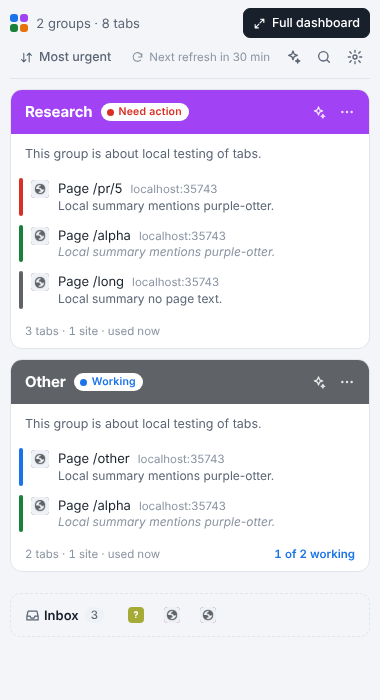
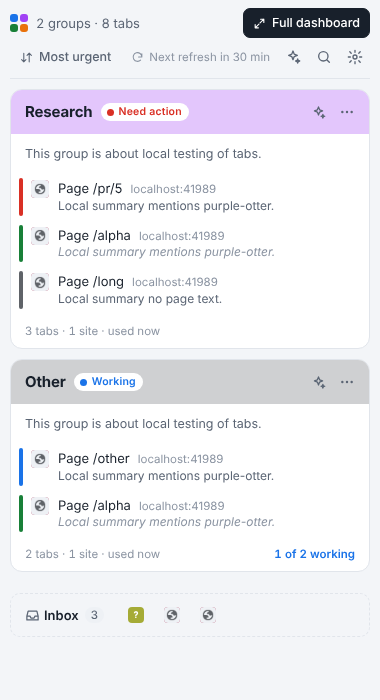
Tone card headers down to a 30% tint of the group color with normal text
Solid colors were too strong; this sits between the old 12% pastel and
the solid fill. Text uses the regular ink color (10:1+ light, 5.6:1+ dark).

Claude-Session: https://claude.ai/code/session_01VtsPSm2NgJEzi9Hbpb4fiX

diff --git a/src/dashboard.css b/src/dashboard.css
@@ -16,8 +16,8 @@
   /* Chrome tab group colors, light */
   --g-grey: #5f6368; --g-blue: #1a73e8; --g-red: #d93025; --g-yellow: #e8a200;
   --g-green: #188038; --g-pink: #d01884; --g-purple: #a142f4; --g-cyan: #007b83; --g-orange: #e8710a;
-  /* Text on a solid group color: white on the deep colors, dark on yellow and orange (contrast >= 4.5:1). */
-  --on-g: #ffffff; --on-g-warm: #1b1f26;
+  /* How much of the group color goes into a card header (the rest is the surface). */
+  --head-mix: 30%;
   --font-ui: ui-sans-serif, system-ui, -apple-system, "Segoe UI", sans-serif;
   --font-mono: ui-monospace, "SF Mono", Menlo, Consolas, monospace;
 }
@@ -28,7 +28,7 @@
     --shadow: 0 1px 2px rgba(0,0,0,.4), 0 10px 30px rgba(0,0,0,.45);
     --g-grey: #bdc1c6; --g-blue: #8ab4f8; --g-red: #f28b82; --g-yellow: #fdd663;
     --g-green: #81c995; --g-pink: #ff8bcb; --g-purple: #c58af9; --g-cyan: #78d9ec; --g-orange: #fcad70;
-    --on-g: #101317; --on-g-warm: #101317;
+    --head-mix: 34%;
     color-scheme: dark;
   }
 }
@@ -38,7 +38,7 @@
   --shadow: 0 1px 2px rgba(0,0,0,.4), 0 10px 30px rgba(0,0,0,.45);
   --g-grey: #bdc1c6; --g-blue: #8ab4f8; --g-red: #f28b82; --g-yellow: #fdd663;
   --g-green: #81c995; --g-pink: #ff8bcb; --g-purple: #c58af9; --g-cyan: #78d9ec; --g-orange: #fcad70;
-  --on-g: #101317; --on-g-warm: #101317;
+  --head-mix: 34%;
   color-scheme: dark;
 }
 
@@ -225,12 +225,9 @@ h1 { margin: 0; font-size: 26px; font-weight: 650; letter-spacing: -.02em; line-
 
 /* Card hierarchy: 1 name + status pill (the only bold text), 2 summary line, 3 tab rows, 4 footer. */
 .card { position: relative; display: flex; flex-direction: column; min-width: 0; border: 1px solid var(--line); border-radius: 12px; background: var(--surface); overflow: hidden; transition: opacity .15s; }
-/* The header is the group's own Chrome color, solid, so a card matches its tab strip chip at a glance. */
-.card { --on-c: var(--on-g); }
-.card[data-color="yellow"], .card[data-color="orange"] { --on-c: var(--on-g-warm); }
-.card-head { display: flex; align-items: center; gap: 8px; min-width: 0; min-height: 44px; padding: 6px 8px 6px 14px; background: var(--c); color: var(--on-c); }
-.card-head :focus-visible { outline-color: var(--on-c); }
-.card-name { flex: 0 1 auto; min-width: 0; padding: 2px 0; border: 0; background: transparent; font-size: 15px; font-weight: 650; letter-spacing: -.01em; text-align: left; overflow: hidden; text-overflow: ellipsis; white-space: nowrap; color: var(--on-c); }
+/* The header is a clear tint of the group's Chrome color, so a card matches its tab strip chip at a glance. */
+.card-head { display: flex; align-items: center; gap: 8px; min-width: 0; min-height: 44px; padding: 6px 8px 6px 14px; background: color-mix(in srgb, var(--c) var(--head-mix), var(--surface)); }
+.card-name { flex: 0 1 auto; min-width: 0; padding: 2px 0; border: 0; background: transparent; font-size: 15px; font-weight: 650; letter-spacing: -.01em; text-align: left; overflow: hidden; text-overflow: ellipsis; white-space: nowrap; color: var(--ink); }
 .card-name:hover { text-decoration: underline; text-underline-offset: 3px; }
 /* Status pill sits on a surface chip so its own color never fights the header color. */
 .card-head .ai-st { background: var(--surface); }
@@ -239,10 +236,10 @@ h1 { margin: 0; font-size: 26px; font-weight: 650; letter-spacing: -.02em; line-
 /* Right-hand tools (window tag, Summarize, More) never shrink; the name truncates instead. */
 .card-tools { flex: none; display: flex; align-items: center; gap: 2px; margin-left: auto; }
 .card-tools .win-tag { margin-right: 4px; }
-.card-tools .icon-btn, .card-tools .win-tag { color: var(--on-c); opacity: .85; }
-.card-tools .icon-btn:hover { color: var(--on-c); opacity: 1; }
+.card-tools .icon-btn, .card-tools .win-tag { color: var(--muted); }
+.card-tools .icon-btn:hover { color: var(--ink); }
 .card-tools .icon-btn { width: 28px; height: 28px; }
-.card-tools .icon-btn:hover { background: color-mix(in srgb, var(--on-c) 16%, transparent); }
+.card-tools .icon-btn:hover { background: color-mix(in srgb, var(--ink) 10%, transparent); }
 .btn.sm { padding: 4px 9px; font-size: 12.5px; border-radius: 7px; }
 .btn.sm svg { width: 13px; height: 13px; }
 .card-body { display: flex; flex-direction: column; gap: 4px; padding: 8px 8px 4px 8px; min-width: 0; }
